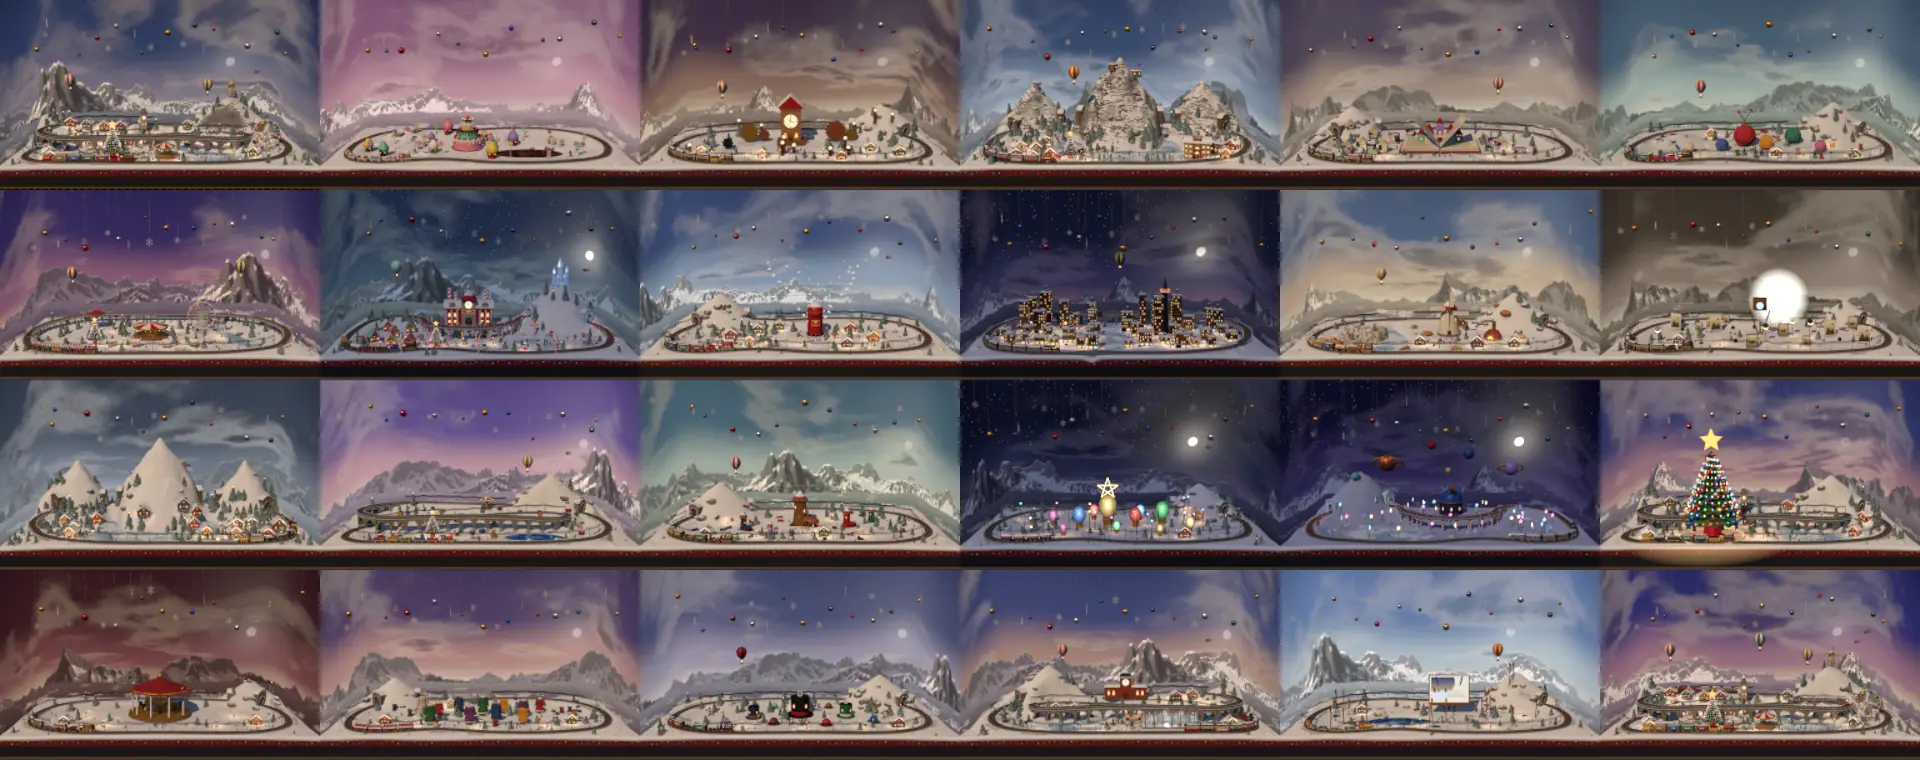
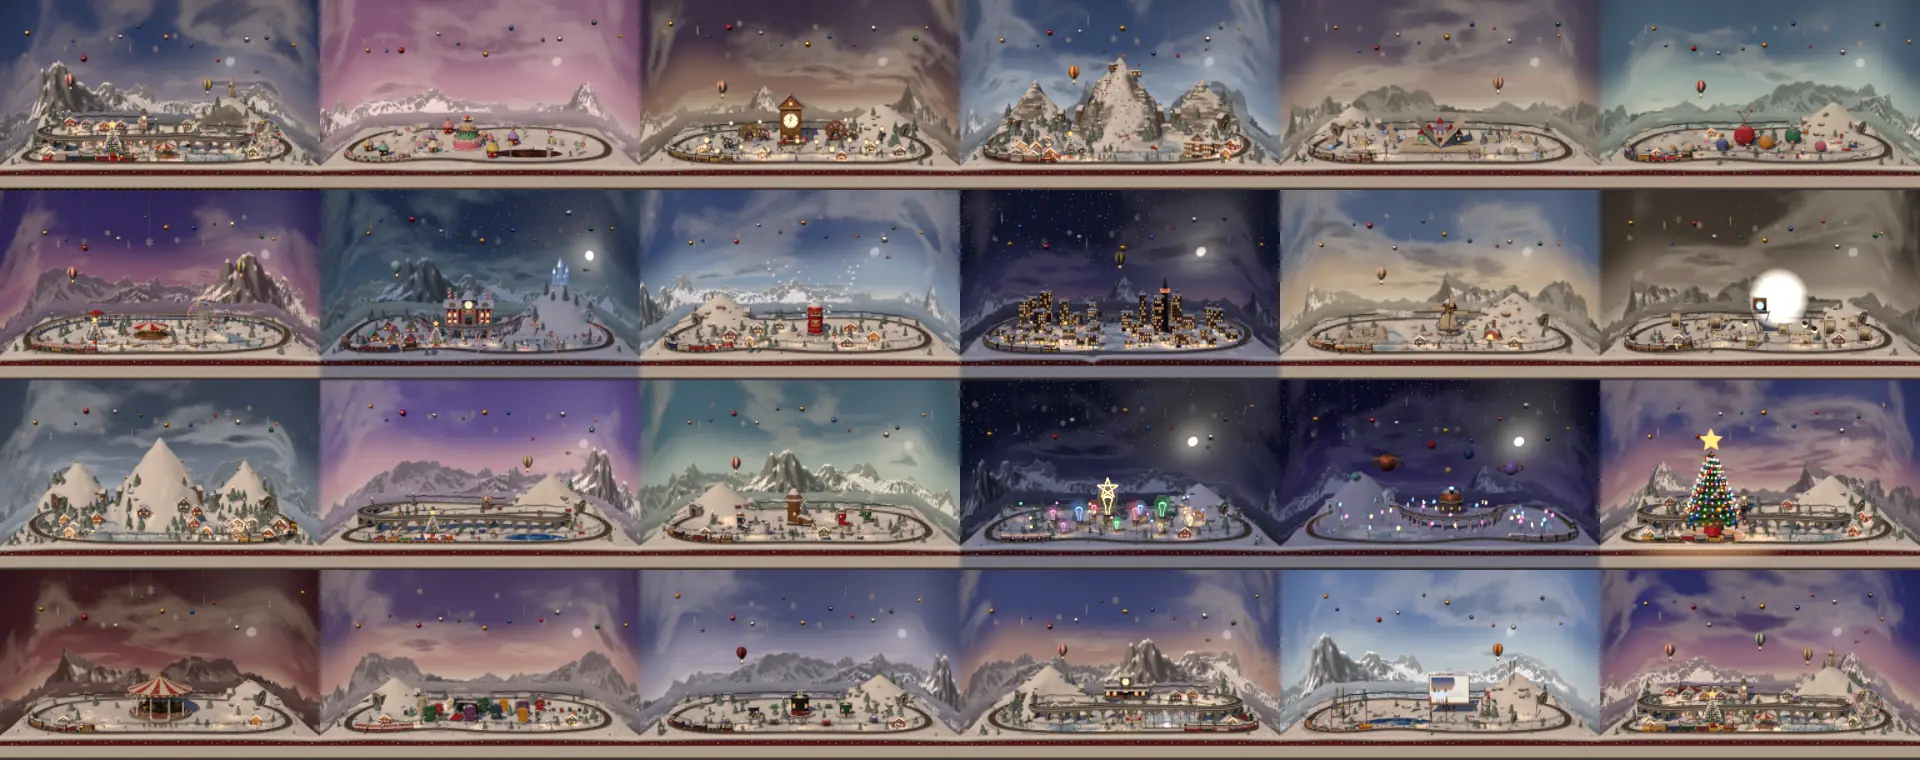
Miniaturas de los 24 circuitos; el cine solo mira lo que puede tapar

diff --git a/src/esc-cine.js b/src/esc-cine.js
@@ -10,7 +10,7 @@ const ALTO = (r, h) => h || clamp(r * 1.7, 2.6, 11);                 // altura q
 
 export class Cine {
   constructor() {this.p = [0, 0, 0]; this.l = [0, 0, 0]; this.fov = 36; this.vistos = []; this.pl = null; this.t = 0; this.tipo = ''; this.num = 0}
-  empieza(M, {aspecto = 1.7, delante = false} = {}) {this.M = M; this.T = M.T; this.as = aspecto; this.vistos = []; this.ult = null; this.elige(delante); this.corte = false; this.tT = 0}
+  empieza(M, {aspecto = 1.7, delante = false} = {}) {this.tk = M.taken.filter(q => ALTO(q[2], q[3]) > 2.65); this.M = M; this.T = M.T; this.as = aspecto; this.vistos = []; this.ult = null; this.elige(delante); this.corte = false; this.tT = 0}
   /* punto de la vía a la distancia s, desplazado lat hacia un lado y up hacia arriba; el rumbo se promedia para que no dé tirones */
   en(s, lat = 0, up = 0, suave = 0) {
     const T = this.T, q = atM(T, mod(s, T.L)); let a = q.a, x = q.x, y = q.y, z = q.z;
@@ -47,13 +47,13 @@ export class Cine {
   /* se libra de meterse bajo el suelo */
   alza(c) {const g = this.suelo(c[0], c[2]) + 1.1; return c[1] < g ? [c[0], g, c[2]] : c}
   tapada(c, o) {const dx = o[0] - c[0], dy = o[1] - c[1], dz = o[2] - c[2], D = Math.hypot(dx, dz) || 1; for (let j = 1; j < 14; j++) {const u = j / 14, x = c[0] + dx * u, y = c[1] + dy * u, z = c[2] + dz * u; if (Math.abs(x) < BW && Math.abs(z) < BD && y < this.M.gy(x, z) + .35) return true; if (this.viaducto(x, y, z, 1.9) && Math.hypot(o[0] - x, o[2] - z) > 5) return true}
-    for (const [x, z, r, h] of this.M.taken) {const u = clamp(((x - c[0]) * dx + (z - c[2]) * dz) / (D * D), 0, 1); if (u < .03 || u > .93) continue; if (Math.hypot(c[0] + dx * u - x, c[2] + dz * u - z) < r * .75 && c[1] + dy * u < this.M.gy(x, z) + ALTO(r, h) * .8) return true} return false}
+    for (const [x, z, r, h] of this.tk) {const u = clamp(((x - c[0]) * dx + (z - c[2]) * dz) / (D * D), 0, 1); if (u < .03 || u > .93) continue; if (Math.hypot(c[0] + dx * u - x, c[2] + dz * u - z) < r * .75 && c[1] + dy * u < this.M.gy(x, z) + ALTO(r, h) * .8) return true} return false}
   nota(p, delante) {
     const K = 9, s0 = this.s(); let ve = 0, mal = 0, ant = null, ini = 0; for (let i = 0; i < K; i++) {
       const t = p.dur * i / (K - 1), c = this.alza(p.cam(t)), o = p.obj(t), tun = this.enTunel(s0 + V * t + (p.suj || -3)); if (Math.abs(c[0]) > BW + 30 || c[2] < -BD + 1.5 || c[2] > BD + 40) return -9;
       const d = Math.hypot(o[0] - c[0], o[1] - c[1], o[2] - c[2]); if (d < 5 || d > 150) mal += .5; if (ant && !p.fijo && Math.hypot(c[0] - ant[0], c[1] - ant[1], c[2] - ant[2]) > V * 2.4 * p.dur / (K - 1) + 1.5) mal += 1; ant = c;
       if (Math.abs(c[0]) < BW && Math.abs(c[2]) < BD) {const v = this.M.m.near(c[0], c[2], 8); if (v && v.d < 3.2 && c[1] < this.suelo(c[0], c[2]) + 11) mal += .9; if (this.viaducto(c[0], c[1], c[2], 3.4)) mal += 1.2}
-      for (const [x, z, r, h] of this.M.taken) {const D = Math.hypot(c[0] - x, c[2] - z); if (D > r + 5 || c[1] > this.M.gy(x, z) + ALTO(r, h) + 1) continue; if (D < r + .9) {mal += .8; break} if (((x - c[0]) * (o[0] - c[0]) + (z - c[2]) * (o[2] - c[2])) / D / d > .8) {mal += .45; break}}
+      for (const [x, z, r, h] of this.tk) {const D = Math.hypot(c[0] - x, c[2] - z); if (D > r + 5 || c[1] > this.M.gy(x, z) + ALTO(r, h) + 1) continue; if (D < r + .9) {mal += .8; break} if (((x - c[0]) * (o[0] - c[0]) + (z - c[2]) * (o[2] - c[2])) / D / d > .8) {mal += .45; break}}
       const b = (p.boca && tun) || ((p.libre || !tun) && !this.tapada(c, o)); if (b) ve++; if (i < 2 && b) ini++;
     }
     let n = 4.4 * ve / K - 3 * mal / K + p.bono + Math.random() * .75 + (ini === 2 ? .5 : -1.2) - (!p.boca && !p.libre && this.enTunel(s0 + (p.suj || -3)) ? 3 : 0); const a = this.vistos; if (a[0] === p.tipo) n -= 2.6; if (a[1] === p.tipo) n -= 1.1; if (a[2] === p.tipo) n -= .4;
